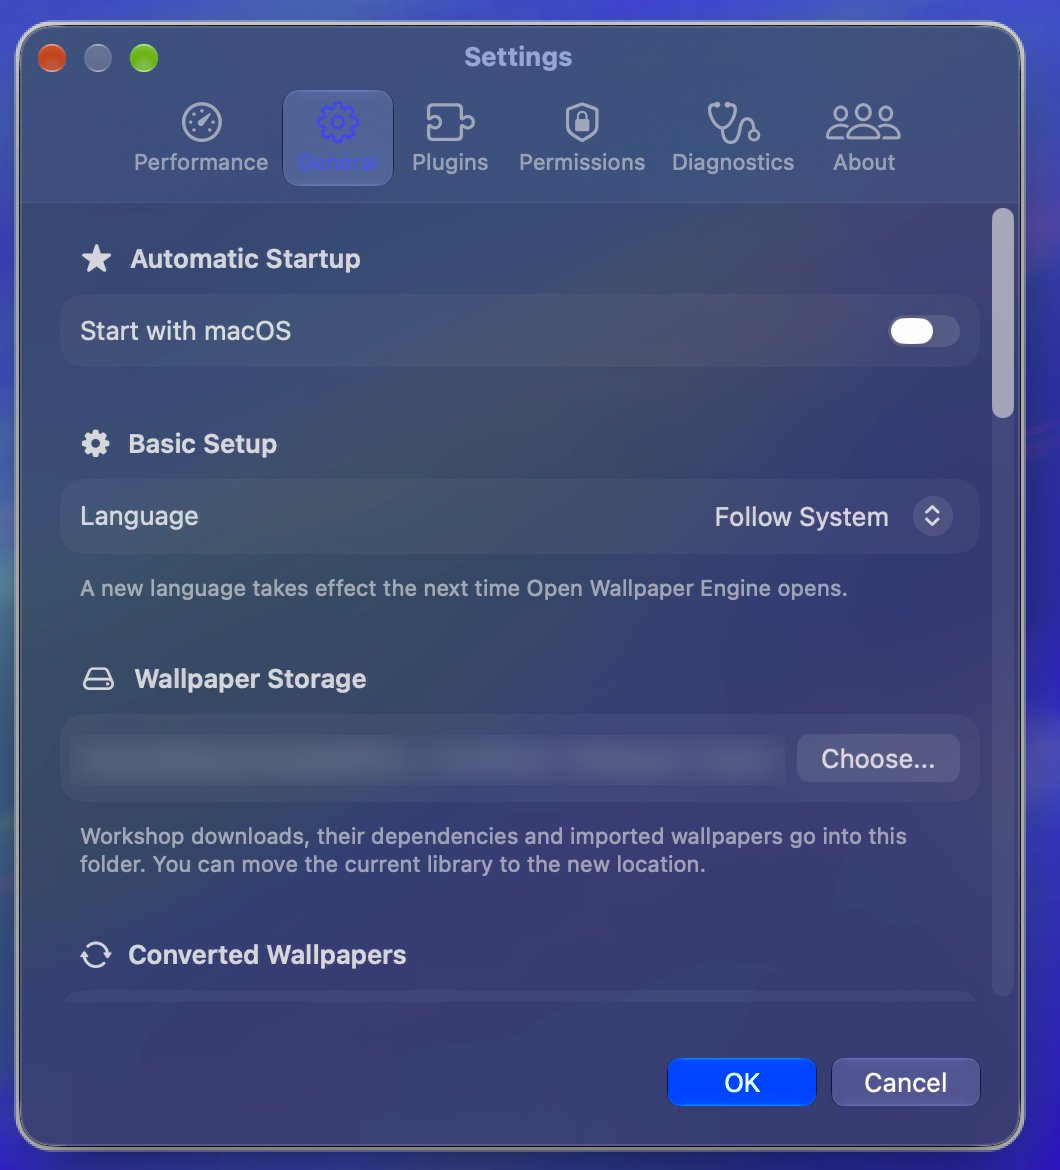
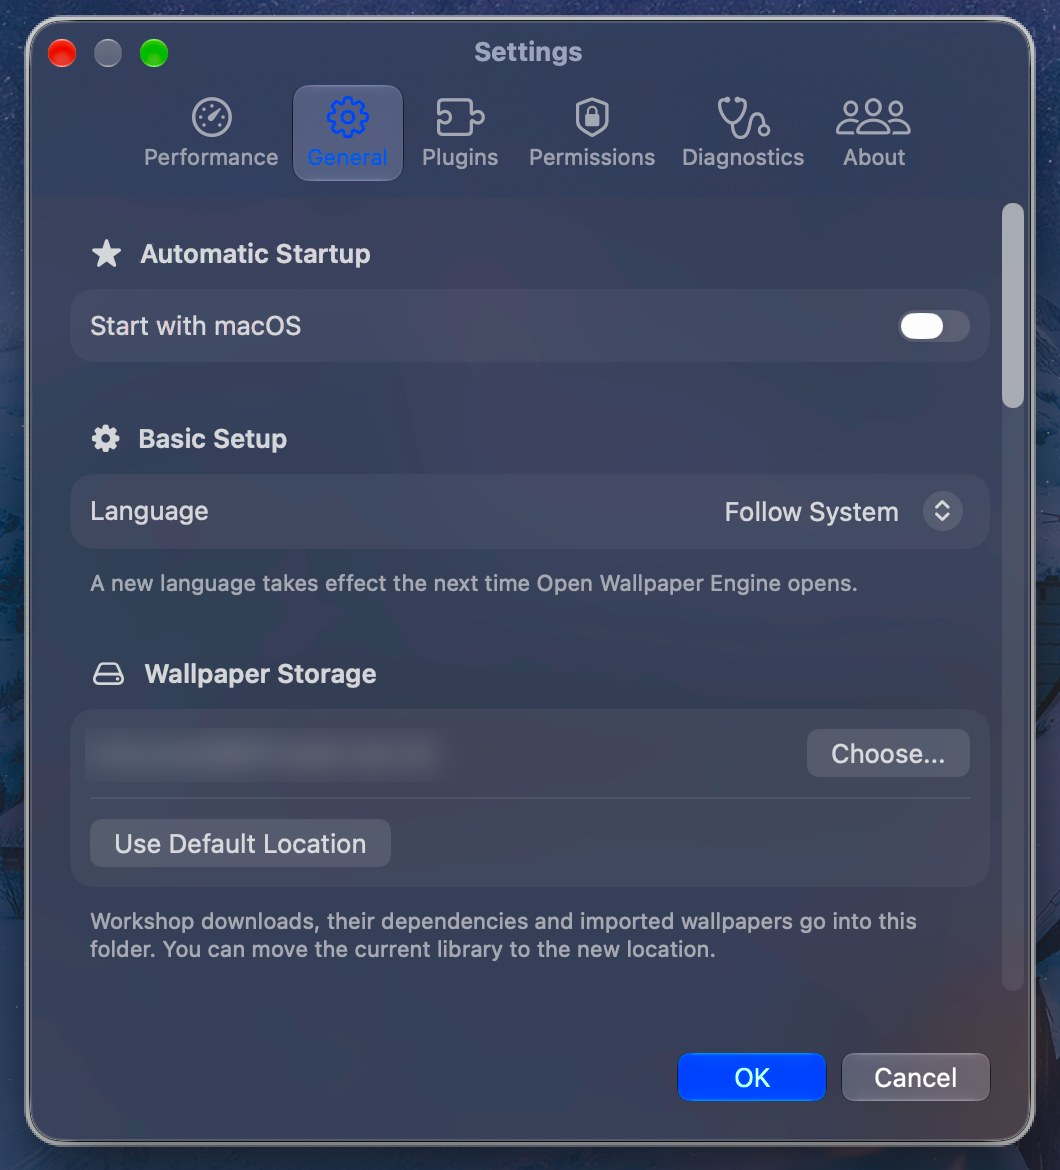
fix(site): retake the glass UI shots over a calm wallpaper

diff --git a/site/index.html b/site/index.html
@@ -248,7 +248,7 @@
           <figcaption><strong>General settings</strong>Startup, language and where wallpapers are stored.</figcaption>
         </figure>
         <figure>
-          <button type="button"><img src="screenshots/menubar-menu.jpg" width="900" height="580" loading="lazy"
+          <button type="button"><img src="screenshots/menubar-menu.jpg" width="580" height="560" loading="lazy"
             alt="The Open Wallpaper Engine menu bar menu, open: Show Open Wallpaper Engine, Recent Wallpapers, Browse Workshop, Settings, Support and FAQ, Mute, Pause and Quit."></button>
           <figcaption><strong>Menu bar</strong>Show, mute, pause or switch wallpapers from the menu bar.</figcaption>
         </figure>
